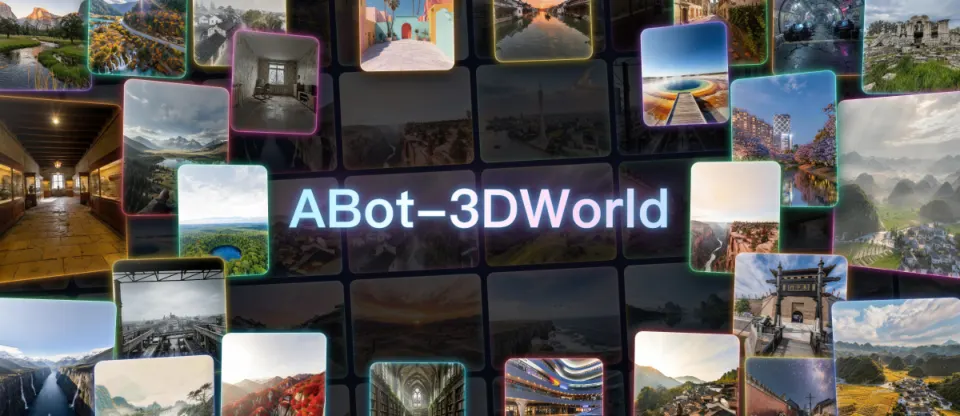
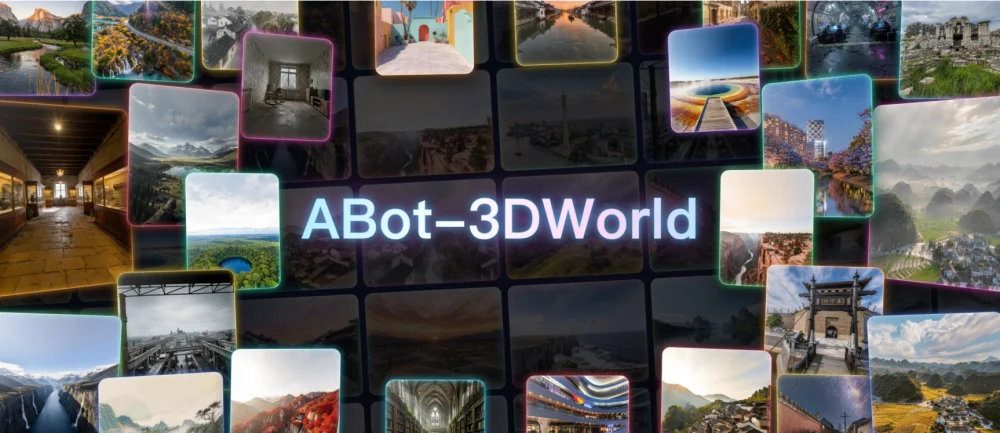
Publications: author popover, Abot thumbnails + venue, Orbit2Ground diagram
- Author hover popover: papers with '... et al.' reveal the full author
  list (9 papers) after a brief dwell; dotted underline affordance
- Thumbnails: add ABot-World teaser, re-encode ABot-3DWorld (sharper,
  from high-res source), swap Orbit2Ground to its white-bg diagram
  (whiteThumb); regenerate PointCNN++ teaser (trimmed, lossless)
- Abot series venue: 'arXiv' -> 'Technical Report' (5 papers);
  WorldRoamBench / POINav stay 'arXiv'
- PointCNN++: drop '(un-sampled)', add Supplement link
- SocialNav: 'project' label, inset keyline frame
- Orbit2Ground: add Code link (PKU-VCL-Geometry/Orbit2Ground)
- Unify Project chips to 'Project Page'; add Supplement chip
- News: CVPR 2026 Findings color aligns with CVPR 2026

diff --git a/src/data/site.ts b/src/data/site.ts
@@ -195,8 +195,8 @@ export const news: NewsEntry[] = [
   {
     year: '2026.03',
     text: {
-      en: '**From Orbit to Ground** accepted to CVPR 2026 *Findings* — generative city-scale photogrammetry from extreme off-nadir satellite imagery. [project →](https://pku-vcl-geometry.github.io/Orbit2Ground/)',
-      zh: '**From Orbit to Ground** 被 CVPR 2026 *Findings* 接收——从极端倾斜卫星影像做生成式城市级摄影测量。[项目主页 →](https://pku-vcl-geometry.github.io/Orbit2Ground/)',
+      en: '**From Orbit to Ground** accepted to CVPR 2026 Findings — generative city-scale photogrammetry from extreme off-nadir satellite imagery. [project →](https://pku-vcl-geometry.github.io/Orbit2Ground/)',
+      zh: '**From Orbit to Ground** 被 CVPR 2026 Findings 接收——从极端倾斜卫星影像做生成式城市级摄影测量。[项目主页 →](https://pku-vcl-geometry.github.io/Orbit2Ground/)',
     },
   },
   {
@@ -223,6 +223,7 @@ export const recruiting: Bi = {
 export interface Publication {
   title: string;
   authors: string; // plain string; the author's own short name is bolded automatically
+  fullAuthors?: string; // complete list (for "..., et al." papers) shown in a hover popover
   venue: string;
   year: number;
   citations?: number;
@@ -242,16 +243,19 @@ export const publications: Publication[] = [
   {
     title: 'ABot-World-0: Infinite Interactive World Rollout on a Single Desktop GPU',
     authors: 'F Jiang, Z Sun, M Wang, Z Zhu, C Wang, Y Zhang, W Liu, Y Wang, et al.',
-    venue: 'arXiv',
+    fullAuthors: 'Fan Jiang, Zhaoxu Sun, Mengchao Wang, Ziyu Zhu, Chiyu Wang, Yunpeng Zhang, Wenlin Liu, Yun Wang, Xue Zheng, Rui Sun, Junfeng Ni, Hongyu Pan, Zhongxu Sun, Fei Yu, Zengye Ge, Mengmeng Du, Nianfei Fan, Mingchao Sun, Yu Liu, Yongchang Zhang, Yanqing Zhu, Jiahang Wang, Ning Ying, Yuze Xuan, Di Yang, Zhicheng Liu, Zhe Gao, Tingbing Xu, Jiacheng Sui, Wenjin Yang, Junnan Lai, Shufeng Liu, Yuan Liu, Zheng Zhou, Yingliang Peng, Dawei Cao, Kaifeng Sheng, Yuxiang Cai, Fei Lu, Mu Xu, Ning Guo',
+    venue: 'Technical Report',
     year: 2026,
     citations: 0,
     highlight: 'Infinite interactive world rollout that fits on a single desktop GPU.',
+    thumb: '/pub/abotworld.webp',
     links: [{ label: 'arXiv', url: 'https://arxiv.org/abs/2607.19191' }],
   },
   {
     title: 'ABot-3DWorld 0: A Universal World Model to Explore Any 3D Space',
     authors: 'M Sun, L Tang, Y Liu, X Yan, Z Li, Y Zhang, F Yu, Z Ge, Y Liu, J Zhang, et al.',
-    venue: 'arXiv',
+    fullAuthors: 'Mingchao Sun, Luyang Tang, Yu Liu, Xu Yan, Zhan Li, Yunwei Zhang, Fei Yu, Zengye Ge, Yumin Liu, Jiacheng Zhang, Yongchang Zhang, Jiawei Zhang, Zhicheng Liu, Zhongxu Sun, Tianjian Ouyang, Wenzheng Chen, Shixing Yang, Nianfei Fan, Guodong Sun, Huan Li, Zheng Zhou, Yongze Li, Yingliang Peng, Mengmeng Du, Yuan Liu, Haozhe Shi, Chunnuo Gong, Chengzhen Yu, Chunxue Jia, Yang Liu, Shiying Zeng, Junnan Lai, Hang Zhang, Ning Guo, Baoquan Chen, Mu Xu, Hongyu Pan',
+    venue: 'Technical Report',
     year: 2026,
     citations: 1,
     highlight: 'A universal world model that can explore and interact with any 3D space. (first-author)',
@@ -262,7 +266,8 @@ export const publications: Publication[] = [
   {
     title: 'ABot-N1: Toward a General Visual-Language Navigation Foundation Model',
     authors: 'R Gong, Y Guo, J Hu, J Kong, X Leng, T Li, W Li, F Liu, Z Liu, J Lu, M Luo, et al.',
-    venue: 'arXiv',
+    fullAuthors: 'Ruiyan Gong, Yingnan Guo, Junjun Hu, Jintao Kong, Xiaoxu Leng, Tianlun Li, Weize Li, Fei Liu, Zhicheng Liu, Jia Lu, Minghua Luo, Chenlin Ming, Yanfen Shen, Jiyue Tao, Zhengbo Wang, Mingyang Yin, Minqi Gu, Zihao Guan, Wei Guo, Guoqing Liu, Huachong Pang, Menglin Yang, Zeqian Ye, Xiaoxiao Geng, Zhining Gu, Honglin Han, Di Jing, Hongyu Pan, Mingchao Sun, Kuan Yang, Jianfang Zhang, Yanghong Chen, Ye He, Wei Mei, Jiahao Shi, Xiangpo Yang, Yanqing Zhu, Yang Cai, Jingjing Ma, Shihui Su, Zixiao Tang, Linbo Zheng, Zedong Chu, Xiaolong Wu, Wenbin Tang, Mu Xu',
+    venue: 'Technical Report',
     year: 2026,
     citations: 0,
     highlight: 'A general visual-language navigation foundation model.',
@@ -271,6 +276,7 @@ export const publications: Publication[] = [
   {
     title: 'WorldRoamBench: An Open-World Benchmark for Long-Horizon Stability of Interactive World Models',
     authors: 'TB Xu, J Sui, Z Gao, K Shi, W Yang, Z Liu, Z Sun, M Sun, H Pan, F Jiang, et al.',
+    fullAuthors: 'Ting-Bing Xu, Jiacheng Sui, Zhe Gao, Kewei Shi, Wenjin Yang, Zhicheng Liu, Zhaoxu Sun, Mingchao Sun, Hongyu Pan, Fan Jiang, Mu Xu, Qi Fan, Yang Gao, Yong Li, Baoquan Chen',
     venue: 'arXiv',
     year: 2026,
     citations: 1,
@@ -280,7 +286,8 @@ export const publications: Publication[] = [
   {
     title: 'ABot-EARTH 0.5: Generative 3D Earth Model',
     authors: 'M Qian, T Ouyang, M Sun, Z Wang, J Xiong, J Han, Y Zhang, J Zhang, et al.',
-    venue: 'arXiv',
+    fullAuthors: 'Ming Qian, Tianjian Ouyang, Mingchao Sun, Zijian Wang, Jincheng Xiong, Jiarong Han, Yongchang Zhang, Jiawei Zhang, Xu Wang, Yu Liu, Luyang Tang, Fei Yu, Zengye Ge, Mengmeng Du, Yuan Liu, Nianfei Fan, Song Wang, Yingliang Peng, Chunxue Jia, Yang Liu, Shiying Zeng, Haozhe Shi, Junnan Lai, Hongyu Pan, Zheng Wu, Ning Guo, Mu Xu, Hang Zhang',
+    venue: 'Technical Report',
     year: 2026,
     citations: 1,
     highlight: 'A generative 3D model of the Earth.',
@@ -291,6 +298,7 @@ export const publications: Publication[] = [
   {
     title: 'POINav: Benchmarking and Enhancing Final-Meters Arrival in Real-World Vision-Language Navigation',
     authors: 'R Gong, M Zhang, Y Zhao, M Sun, Y Shen, Z Chu, Z Gu, W Guo, X Cheng, et al.',
+    fullAuthors: 'Ruiyan Gong, Meisheng Zhang, Yuxiang Zhao, Mingchao Sun, Yanfen Shen, Zedong Chu, Zhining Gu, Wei Guo, Xiaolong Cheng, Qiming Li, Kangning Niu, Yanqing Zhu, Xiaolong Wu, Tianlun Li, Mu Xu',
     venue: 'arXiv',
     year: 2026,
     citations: 1,
@@ -300,7 +308,8 @@ export const publications: Publication[] = [
   {
     title: 'Abot-n0: Technical Report on the VLA Foundation Model for Versatile Embodied Navigation',
     authors: 'Z Chu, S Xie, X Wu, Y Shen, M Luo, Z Wang, F Liu, X Leng, J Hu, M Yin, et al.',
-    venue: 'arXiv',
+    fullAuthors: 'Zedong Chu, Shichao Xie, Xiaolong Wu, Yanfen Shen, Minghua Luo, Zhengbo Wang, Fei Liu, Xiaoxu Leng, Junjun Hu, Mingyang Yin, Jia Lu, Yingnan Guo, Kai Yang, Jiawei Han, Xu Chen, Yanqing Zhu, Yuxiang Zhao, Xin Liu, Yirong Yang, Ye He, Jiahang Wang, Yang Cai, Tianlin Zhang, Li Gao, Liu Liu, Mingchao Sun, Fan Jiang, Chiyu Wang, Zhicheng Liu, Hongyu Pan, Honglin Han, Zhining Gu, Kuan Yang, Jianfang Zhang, Di Jing, Zihao Guan, Wei Guo, Guoqing Liu, Di Yang, Xiangpo Yang, Menglin Yang, Hongguang Xing, Weiguo Li, Mu Xu',
+    venue: 'Technical Report',
     year: 2026,
     citations: 15,
     highlight: 'A vision-language-action (VLA) foundation model for versatile embodied navigation.',
@@ -309,15 +318,18 @@ export const publications: Publication[] = [
   {
     title: 'From Orbit to Ground: Generative City Photogrammetry from Extreme Off-Nadir Satellite Images',
     authors: 'F Yu, Y Liu, L Tang, M Sun, Z Ge, R Bu, Y Jin, H Zhao, H Sun, Y Li, M Xu, et al.',
+    fullAuthors: 'Fei Yu, Yu Liu, Luyang Tang, Mingchao Sun, Zengye Ge, Rui Bu, Yuchao Jin, Haisen Zhao, He Sun, Yangyan Li, Mu Xu, Wenzheng Chen, Baoquan Chen',
     venue: 'CVPR 2026 Findings',
     year: 2026,
     citations: 2,
     highlight: 'Generative city-scale photogrammetry from extreme off-nadir satellite imagery.',
     thumb: '/pub/orbit2ground.webp',
+    whiteThumb: true,
     featured: true,
     links: [
       { label: 'arXiv', url: 'https://arxiv.org/abs/2512.07527' },
       { label: 'project', url: 'https://pku-vcl-geometry.github.io/Orbit2Ground/' },
+      { label: 'code', url: 'https://github.com/PKU-VCL-Geometry/Orbit2Ground' },
     ],
   },
   {
@@ -326,17 +338,23 @@ export const publications: Publication[] = [
     venue: 'CVPR',
     year: 2026,
     citations: 1,
-    highlight: 'A performant convolution operator that works directly on native (un-sampled) point clouds.',
+    highlight: 'A performant convolution operator that works directly on native point clouds.',
     thumb: '/pub/pointcnnpp.webp',
+    whiteThumb: true,
     featured: true,
     links: [
       { label: 'arXiv', url: 'https://arxiv.org/abs/2511.23227' },
       { label: 'code', url: 'https://github.com/ant-research/pointelligence' },
+      {
+        label: 'supplement',
+        url: 'https://openaccess.thecvf.com/content/CVPR2026/supplemental/Li_PointCNN_Performant_Convolution_CVPR_2026_supplemental.pdf',
+      },
     ],
   },
   {
     title: 'SocialNav: Training a Human-Inspired Foundation Model for Socially-Aware Embodied Navigation',
     authors: 'Z Chen, Y Guo, Z Chu, M Luo, Y Shen, M Sun, J Hu, S Xie, Y Kuan, P Shi, et al.',
+    fullAuthors: 'Ziyi Chen, Yingnan Guo, Zedong Chu, Minghua Luo, Yanfen Shen, Mingchao Sun, Junjun Hu, Shichao Xie, Kuan Yang, Pei Shi, Zhining Gu, Lu Liu, Honglin Han, Xiaolong Wu, Mu Xu, Yu Zhang, Ning Guo',
     venue: 'CVPR',
     year: 2026,
     citations: 15,
@@ -347,7 +365,7 @@ export const publications: Publication[] = [
     links: [
       { label: 'arXiv', url: 'https://arxiv.org/abs/2511.21135' },
       { label: 'code', url: 'https://github.com/AMAP-EAI/SocialNav' },
-      { label: 'projpage', url: 'https://amap-eai.github.io/SocialNav/' },
+      { label: 'project', url: 'https://amap-eai.github.io/SocialNav/' },
     ],
   },
   {
